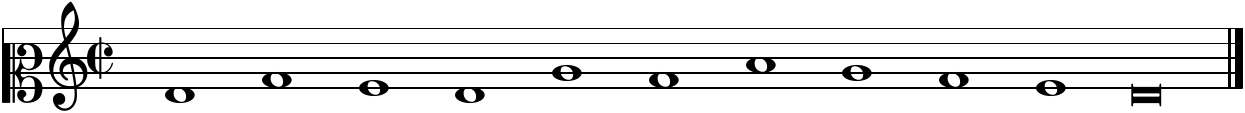
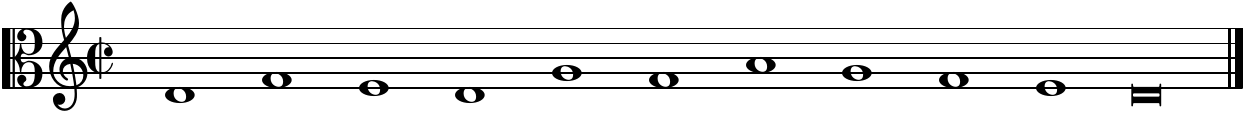
Correct historical C-clef heights in all listening scores

Changed region(s): [[0.0, 0.531, 0.061, 0.9292], [0.0, 0.2389, 0.061, 0.5044]]

diff --git a/index.html b/index.html
@@ -3,7 +3,7 @@
 <html lang="ko"><head><meta charset="utf-8"/><meta content="width=device-width, initial-scale=1" name="viewport"/><meta content="#f4f0e8" name="theme-color"/><meta content="푹스의 대위법, 악보를 보고 성부를 나누어 듣는 작은 연습실." name="description"/><title>대위법 듣기 · Foursheep</title><link href="style.css" rel="stylesheet"/></head>
 <body><header><a class="brand" href="#">FOURSHEEP <span>듣는 서재</span></a><a href="https://www.youtube.com/@foursheeplab">YouTube ↗</a></header>
 <main><section class="intro"><p class="eyebrow">JOHANN JOSEPH FUX · GRADUS AD PARNASSUM</p><h1>악보를 눈으로,<br/>대위법을 귀로.</h1><p class="lead">두 선율이 만나 하나의 음악이 되는 과정.<br/>각 성부를 따로 듣고, 함께 흐르는 소리를 비교해 보세요.</p><nav aria-label="악보 선택"><a href="#fig-4">Fig. 4 · 정선율</a><a href="#fig-5">Fig. 5 · 두 성부</a><a href="#fig-6">Fig. 6 · 오류와 교정</a></nav></section>
-<section class="score-card" id="fig-4"><div class="heading"><span class="number">04</span><div><p class="eyebrow">FIG. 4</p><h2>모든 선율의 출발점</h2><p>정선율 · Cantus firmus</p></div></div><div class="score"><img alt="Fig. 4. 레 파 미 레 솔 파 라 솔 파 미 레로 진행하는 정선율" src="assets/fig04.png"/></div><p>먼저 바탕이 되는 선율을 들어보세요. 다음 악보에서도 같은 선율이 이어집니다.</p><audio aria-label="Fig. 4 정선율 듣기" controls="" preload="none" src="assets/fig04.mp3"></audio></section>
-<section class="score-card" id="fig-5"><div class="heading"><span class="number">05</span><div><p class="eyebrow">FIG. 5</p><h2>하나의 선율 위에, 또 하나</h2><p>제1종 대위법 · 음표 대 음표</p></div></div><div class="score"><img alt="Fig. 5. 정선율 위에 대위 선율을 붙인 두 성부 악보" src="assets/fig05.png"/></div><p>아래 성부의 정선율과 위 성부의 대위 선율을 따로 들어본 뒤, 함께 들어보세요.</p><label for="voice5">들을 성부</label><select data-player="audio5" id="voice5"><option value="assets/fig05.mp3">두 성부 함께</option><option value="assets/fig04.mp3">정선율만 · 아래 성부</option><option value="assets/fig05_counterpoint.mp3">대위 선율만 · 위 성부</option></select><audio aria-label="Fig. 5 선택한 성부 듣기" controls="" id="audio5" preload="none" src="assets/fig05.mp3"></audio></section>
-<section class="score-card" id="fig-6"><div class="heading"><span class="number">06</span><div><p class="eyebrow">FIG. 6</p><h2>두 음을 바꾸면</h2><p>요제프의 진행과 알로이시우스의 교정</p></div></div><div class="score"><img alt="Fig. 6. 아래 성부 처음 두 마디의 오류 음에 빨간 곱표가 있고 수정 음이 함께 표시된 악보" src="assets/fig06.png"/></div><p>빨간 ×는 잘못된 음을 가리킵니다. 아래 성부의 첫 두 음이 <strong>솔–레에서 낮은 레–레로</strong> 바뀝니다. 악보에 나란히 적힌 두 대안은 각각 따로 연주합니다.</p><label for="voice6">비교해서 듣기</label><select data-player="audio6" id="voice6"><option value="assets/fig06_original.mp3">잘못된 진행 · 두 성부 함께</option><option value="assets/fig06_corrected.mp3">수정한 진행 · 두 성부 함께</option><option value="assets/fig06_original_counterpoint.mp3">잘못된 대위 선율만 · 아래 성부</option><option value="assets/fig06_corrected_counterpoint.mp3">수정한 대위 선율만 · 아래 성부</option><option value="assets/fig04.mp3">정선율만 · 위 성부</option></select><audio aria-label="Fig. 6 선택한 진행 듣기" controls="" id="audio6" preload="none" src="assets/fig06_original.mp3"></audio></section>
+<section class="score-card" id="fig-4"><div class="heading"><span class="number">04</span><div><p class="eyebrow">FIG. 4</p><h2>모든 선율의 출발점</h2><p>정선율 · Cantus firmus</p></div></div><div class="score"><img alt="Fig. 4. 레 파 미 레 솔 파 라 솔 파 미 레로 진행하는 정선율" src="assets/fig04.png?v=clef-height-20260921"/></div><p>먼저 바탕이 되는 선율을 들어보세요. 다음 악보에서도 같은 선율이 이어집니다.</p><audio aria-label="Fig. 4 정선율 듣기" controls="" preload="none" src="assets/fig04.mp3"></audio></section>
+<section class="score-card" id="fig-5"><div class="heading"><span class="number">05</span><div><p class="eyebrow">FIG. 5</p><h2>하나의 선율 위에, 또 하나</h2><p>제1종 대위법 · 음표 대 음표</p></div></div><div class="score"><img alt="Fig. 5. 정선율 위에 대위 선율을 붙인 두 성부 악보" src="assets/fig05.png?v=clef-height-20260921"/></div><p>아래 성부의 정선율과 위 성부의 대위 선율을 따로 들어본 뒤, 함께 들어보세요.</p><label for="voice5">들을 성부</label><select data-player="audio5" id="voice5"><option value="assets/fig05.mp3">두 성부 함께</option><option value="assets/fig04.mp3">정선율만 · 아래 성부</option><option value="assets/fig05_counterpoint.mp3">대위 선율만 · 위 성부</option></select><audio aria-label="Fig. 5 선택한 성부 듣기" controls="" id="audio5" preload="none" src="assets/fig05.mp3"></audio></section>
+<section class="score-card" id="fig-6"><div class="heading"><span class="number">06</span><div><p class="eyebrow">FIG. 6</p><h2>두 음을 바꾸면</h2><p>요제프의 진행과 알로이시우스의 교정</p></div></div><div class="score"><img alt="Fig. 6. 아래 성부 처음 두 마디의 오류 음에 빨간 곱표가 있고 수정 음이 함께 표시된 악보" src="assets/fig06.png?v=clef-height-20260921"/></div><p>빨간 ×는 잘못된 음을 가리킵니다. 아래 성부의 첫 두 음이 <strong>솔–레에서 낮은 레–레로</strong> 바뀝니다. 악보에 나란히 적힌 두 대안은 각각 따로 연주합니다.</p><label for="voice6">비교해서 듣기</label><select data-player="audio6" id="voice6"><option value="assets/fig06_original.mp3">잘못된 진행 · 두 성부 함께</option><option value="assets/fig06_corrected.mp3">수정한 진행 · 두 성부 함께</option><option value="assets/fig06_original_counterpoint.mp3">잘못된 대위 선율만 · 아래 성부</option><option value="assets/fig06_corrected_counterpoint.mp3">수정한 대위 선율만 · 아래 성부</option><option value="assets/fig04.mp3">정선율만 · 위 성부</option></select><audio aria-label="Fig. 6 선택한 진행 듣기" controls="" id="audio6" preload="none" src="assets/fig06_original.mp3"></audio></section>
 <section class="notes"><h2>이 듣기 자료에 관하여</h2><p>요한 요제프 푹스의 《파르나소스로 오르는 계단》 제2권 학습을 위한 Fig. 4–6 시제품입니다. 악보 번호는 알프레드 만 (Alfred Mann) 판본을 따릅니다.</p><p>빠르기는 2분음표 = 60입니다. 파이프오르간 계열의 합성 음색을 사용했으며, 1725년 특정 악기의 실제 녹음이나 복원 음원은 아닙니다.</p><p>성부를 바꾸면 재생 위치가 처음으로 돌아갑니다. 재생 버튼을 눌러 시작하세요. 한 번에 하나의 연주만 재생됩니다.</p></section></main><footer>FOURSHEEP · 세상을 이해하는 과정</footer><script src="app.js"></script></body></html>
